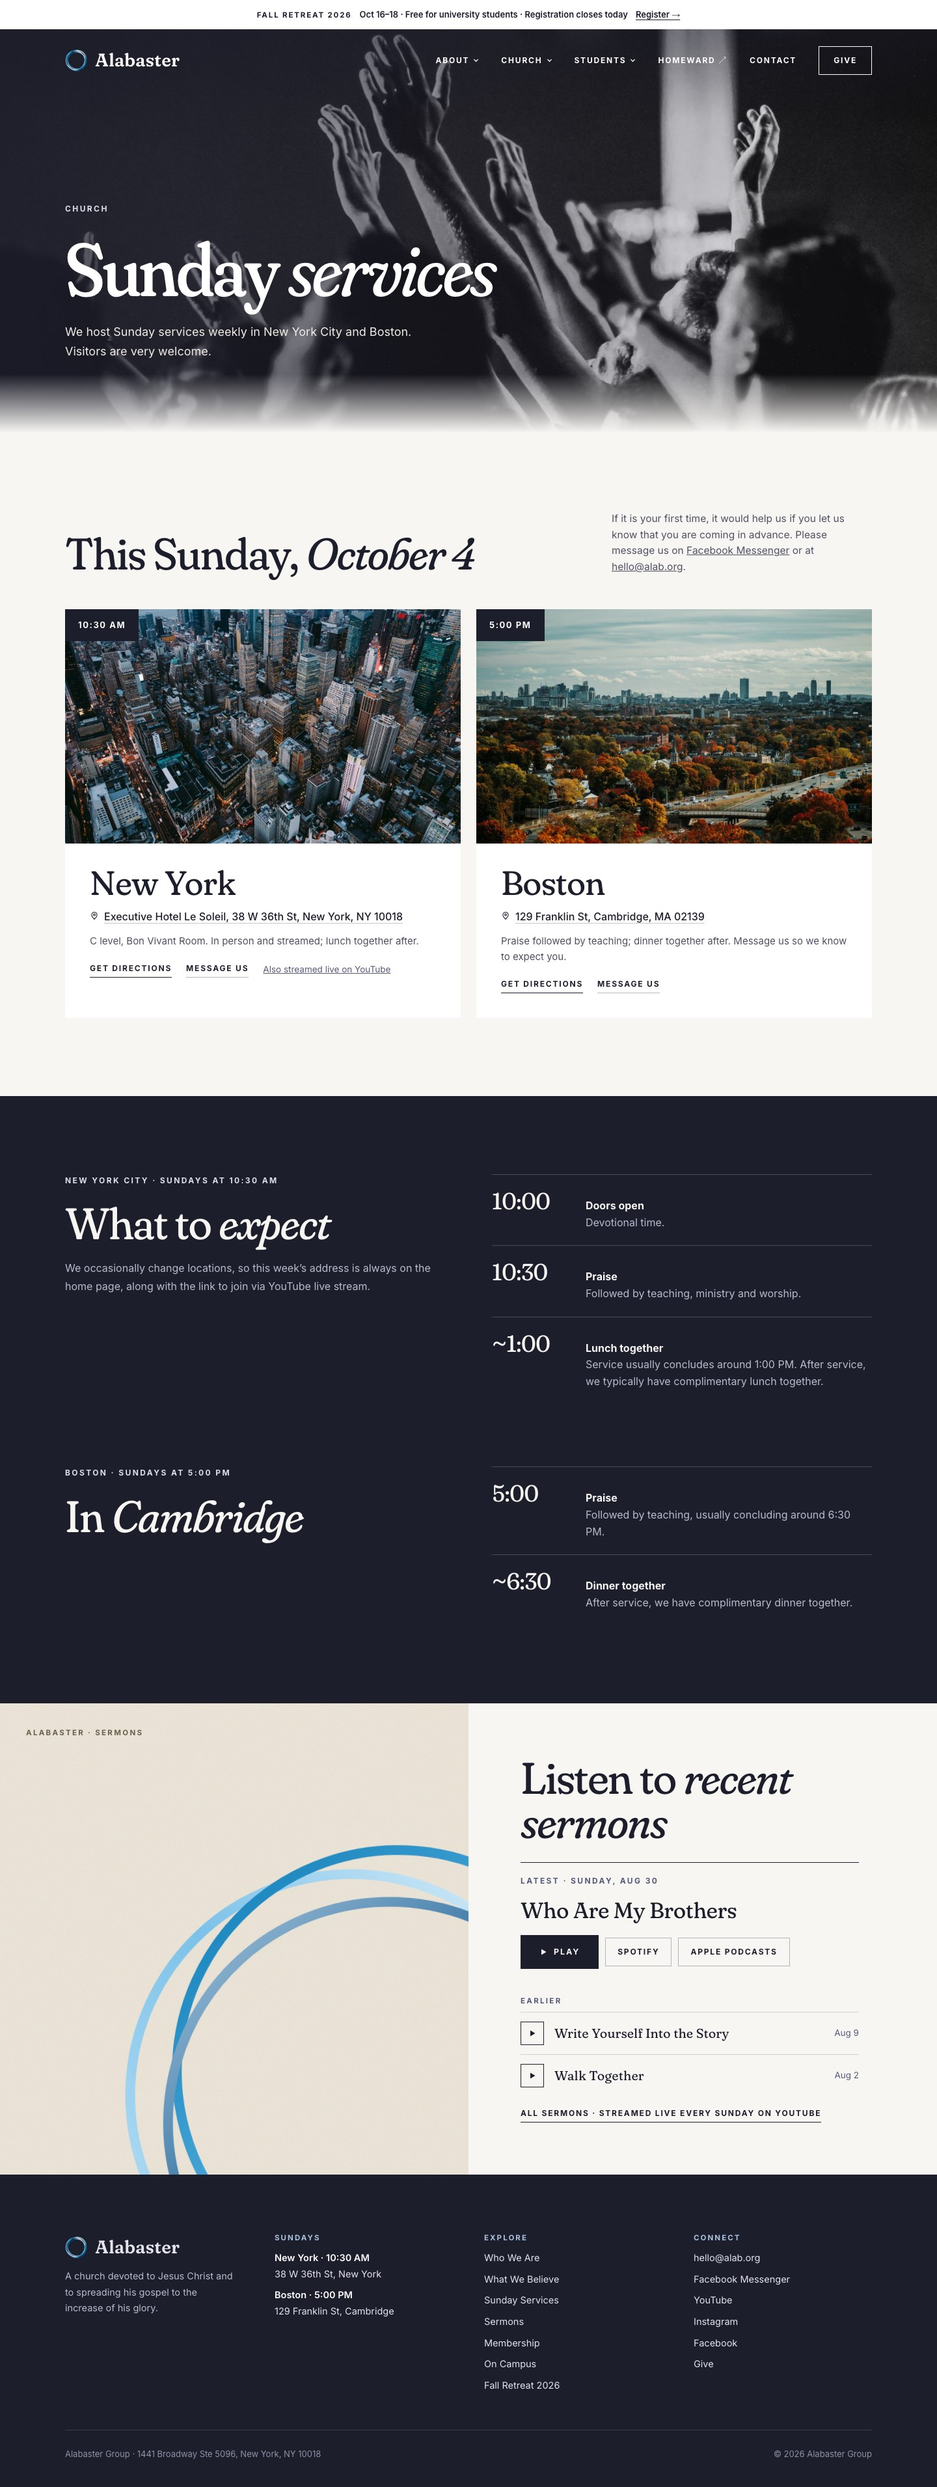
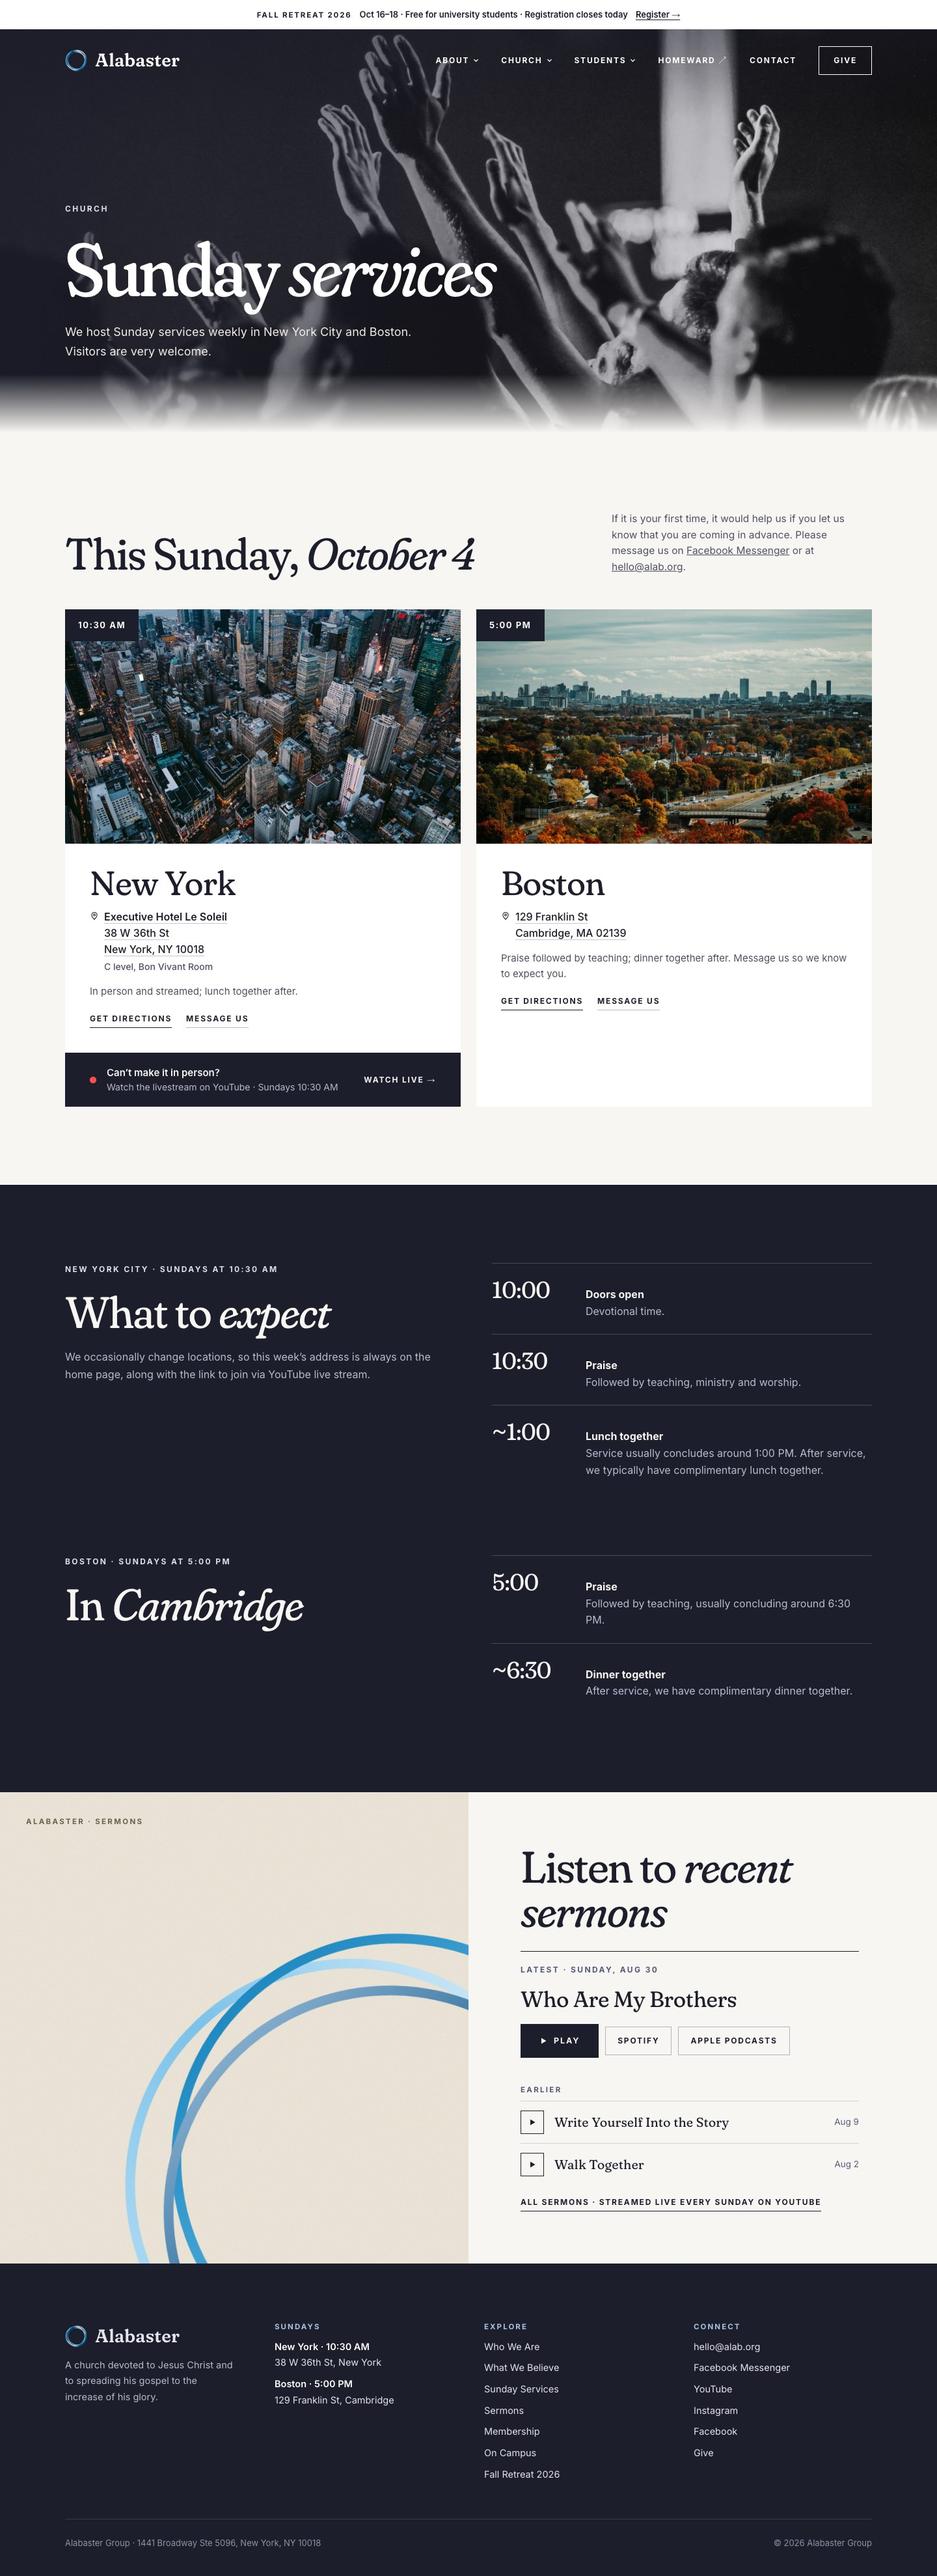
Make livestream link prominent and format NYC address on separate lines
- New York card: venue / street / city on their own lines, room as a note
- Navy 'Can't make it in person? Watch live' bar with a pulsing live dot
- Boston address split the same way
- Test plan screenshots refreshed in docs/test-plan/

diff --git a/public/css/site.css b/public/css/site.css
@@ -342,3 +342,21 @@ p { margin: 0; }
 .page-title { padding-block: 96px 64px; }
 .page-title h1 { font-size: clamp(52px, 7vw, 104px); }
 .page-title p { max-width: 620px; margin-top: 22px; }
+
+/* ---------- Address block & livestream row ---------- */
+.address { text-decoration: none; line-height: 1.55; }
+.address > span { text-decoration: underline; text-decoration-color: rgba(29, 30, 44, 0.25); text-underline-offset: 4px; }
+.address strong { font-weight: 600; }
+.address__note { display: inline-block; margin-top: 4px; font-size: 14px; color: var(--muted); text-decoration: none; }
+.live {
+  margin-top: auto; display: flex; align-items: center; gap: 16px;
+  padding: 20px 38px; background: var(--ink); color: var(--on-dark); text-decoration: none;
+}
+.live:hover { opacity: 0.92; }
+.live__dot { width: 10px; height: 10px; border-radius: 50%; background: #FF4D4D; box-shadow: 0 0 0 0 rgba(255, 77, 77, 0.6); animation: live-pulse 2s ease-out infinite; flex-shrink: 0; }
+@keyframes live-pulse { 0% { box-shadow: 0 0 0 0 rgba(255, 77, 77, 0.55); } 70%, 100% { box-shadow: 0 0 0 10px rgba(255, 77, 77, 0); } }
+.live__text { display: flex; flex-direction: column; gap: 2px; flex-grow: 1; font-size: 14px; line-height: 1.4; color: var(--on-dark-muted); }
+.live__text strong { color: var(--on-dark); font-size: 15px; font-weight: 600; }
+.live__cta { font-size: 12px; font-weight: 700; letter-spacing: 0.15em; text-transform: uppercase; white-space: nowrap; }
+@media (prefers-reduced-motion: reduce) { .live__dot { animation: none; } }
+@media (max-width: 900px) { .live { padding: 18px 22px; } .live__cta { font-size: 11px; } }

diff --git a/src/partials/card-nyc.html b/src/partials/card-nyc.html
@@ -2,8 +2,13 @@
 <div class="card__media"><img src="/images/home/new_york_background.webp" alt="Midtown Manhattan at dusk" loading="lazy"><span class="tag">{{site.nyc.time}}</span></div>
 <div class="card__body">
 <h3>New York</h3>
-<a class="address" href="{{site.nyc.map}}">{{> pin}}<span>{{site.nyc.address}}</span></a>
-<span class="muted" style="font-size: 15px;">{{site.nyc.room}}. In person and streamed; lunch together after.</span>
-<div class="card__links"><a class="link-u" href="{{site.nyc.map}}">Get directions</a><a class="link-u soft" href="{{site.messenger}}">Message us</a><a class="small-link" href="{{site.youtube_live}}">Also streamed live on YouTube</a></div>
+<a class="address" href="{{site.nyc.map}}">{{> pin}}<span><strong>{{site.nyc.venue}}</strong><br>{{site.nyc.street}}<br>{{site.nyc.city_line}}<br><span class="address__note">{{site.nyc.room}}</span></span></a>
+<span class="muted" style="font-size: 15px;">In person and streamed; lunch together after.</span>
+<div class="card__links"><a class="link-u" href="{{site.nyc.map}}">Get directions</a><a class="link-u soft" href="{{site.messenger}}">Message us</a></div>
 </div>
+<a class="live" href="{{site.youtube_live}}">
+<span class="live__dot" aria-hidden="true"></span>
+<span class="live__text"><strong>Can’t make it in person?</strong><span>Watch the livestream on YouTube · Sundays {{site.nyc.time}}</span></span>
+<span class="live__cta">Watch live →</span>
+</a>
 </article>

diff --git a/src/partials/card-boston.html b/src/partials/card-boston.html
@@ -2,7 +2,7 @@
 <div class="card__media"><img src="/images/who-we-are/unsplash-image-W6BUMYEhTG8.webp" alt="Boston skyline above autumn trees" loading="lazy"><span class="tag">{{site.boston.time}}</span></div>
 <div class="card__body">
 <h3>Boston</h3>
-<a class="address" href="{{site.boston.map}}">{{> pin}}<span>{{site.boston.address}}</span></a>
+<a class="address" href="{{site.boston.map}}">{{> pin}}<span>{{site.boston.street}}<br>{{site.boston.city_line}}</span></a>
 <span class="muted" style="font-size: 15px;">Praise followed by teaching; dinner together after. Message us so we know to expect you.</span>
 <div class="card__links"><a class="link-u" href="{{site.boston.map}}">Get directions</a><a class="link-u soft" href="{{site.messenger}}">Message us</a></div>
 </div>

diff --git a/docs/test-plan/README.md b/docs/test-plan/README.md
@@ -1,6 +1,6 @@
 # Test plan
 
-Generated 2026-09-30 22:48 by `scripts/test_plan.py` from a fresh build.
+Generated 2026-09-30 22:53 by `scripts/test_plan.py` from a fresh build.
 
 ## Automated checks
 
